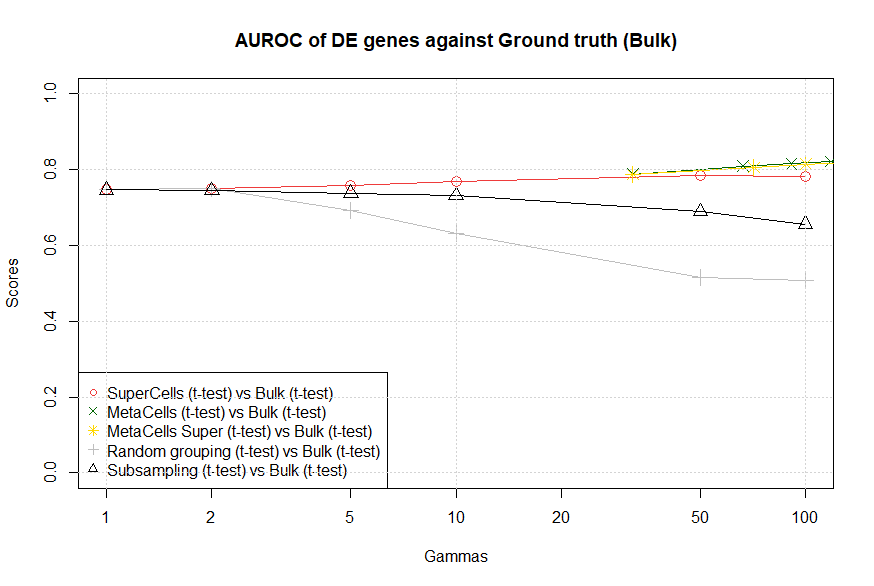
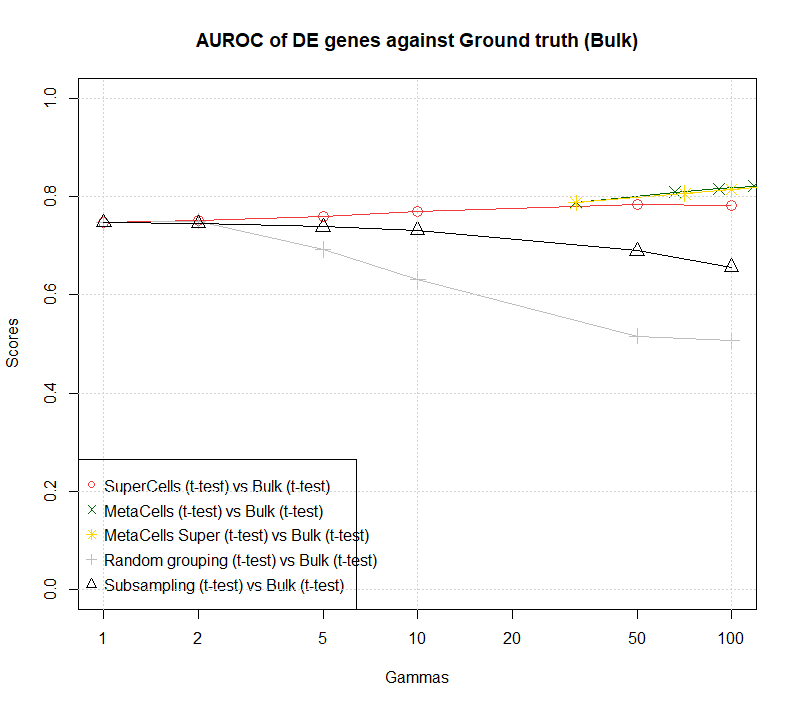
Typo error and resizing

diff --git a/README.md b/README.md
@@ -68,7 +68,7 @@ Here are some results obtained with this pipeline for the dataset hagai 2018 mou
 
 Please find all dependencies in the DESCRIPTION file. Additionally, you will need to install these packages:
 
-- Package [SuperCells](https://github.com/GfellerLab/SuperCell/tree/dev) from Gfeller lab, **use the dev version** (remotes::install_github("GfellerLab/SuperCell**@dev**"))
+- Package [SuperCells](https://github.com/GfellerLab/SuperCell/tree/dev) from Gfeller lab, **use the dev version** (remotes::install_github("GfellerLab/SuperCell@dev"))
 
 - Package (SuperCellBM)[https://github.com/michelhugo/SuperCellBM] from Gfeller lab but modified to run with current analyses
 
